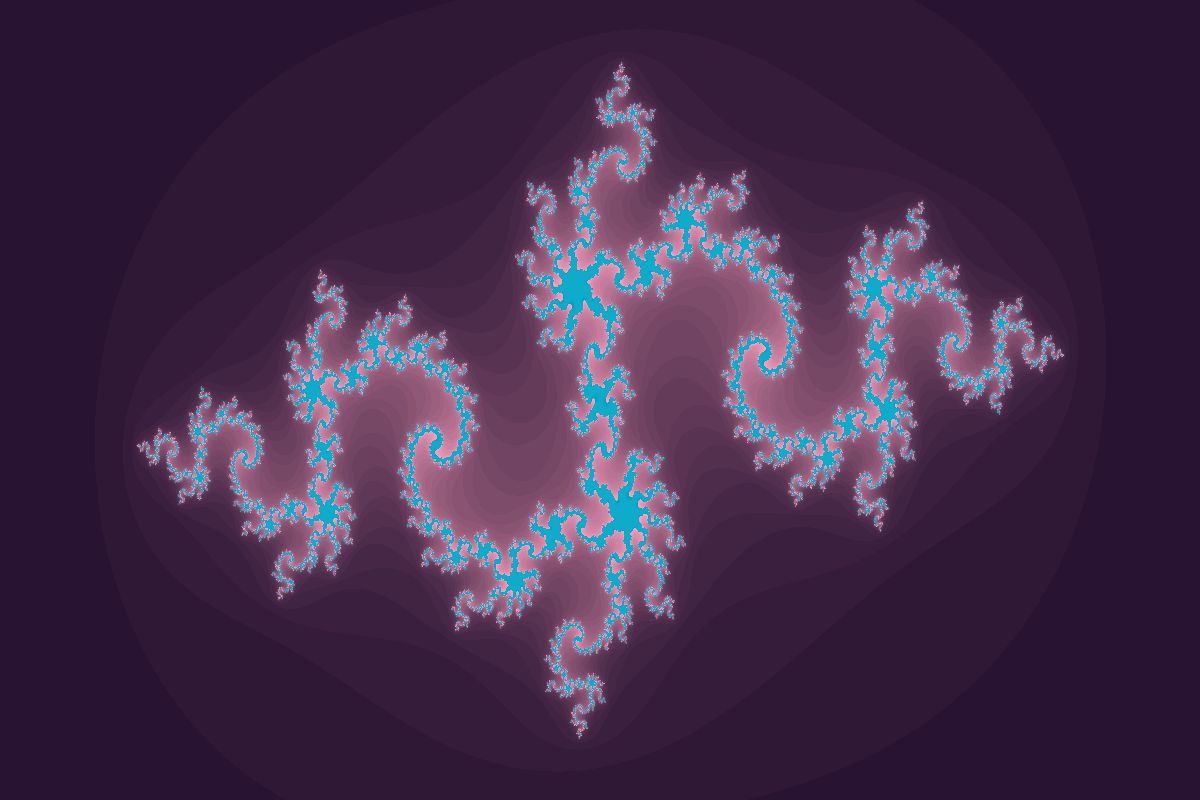
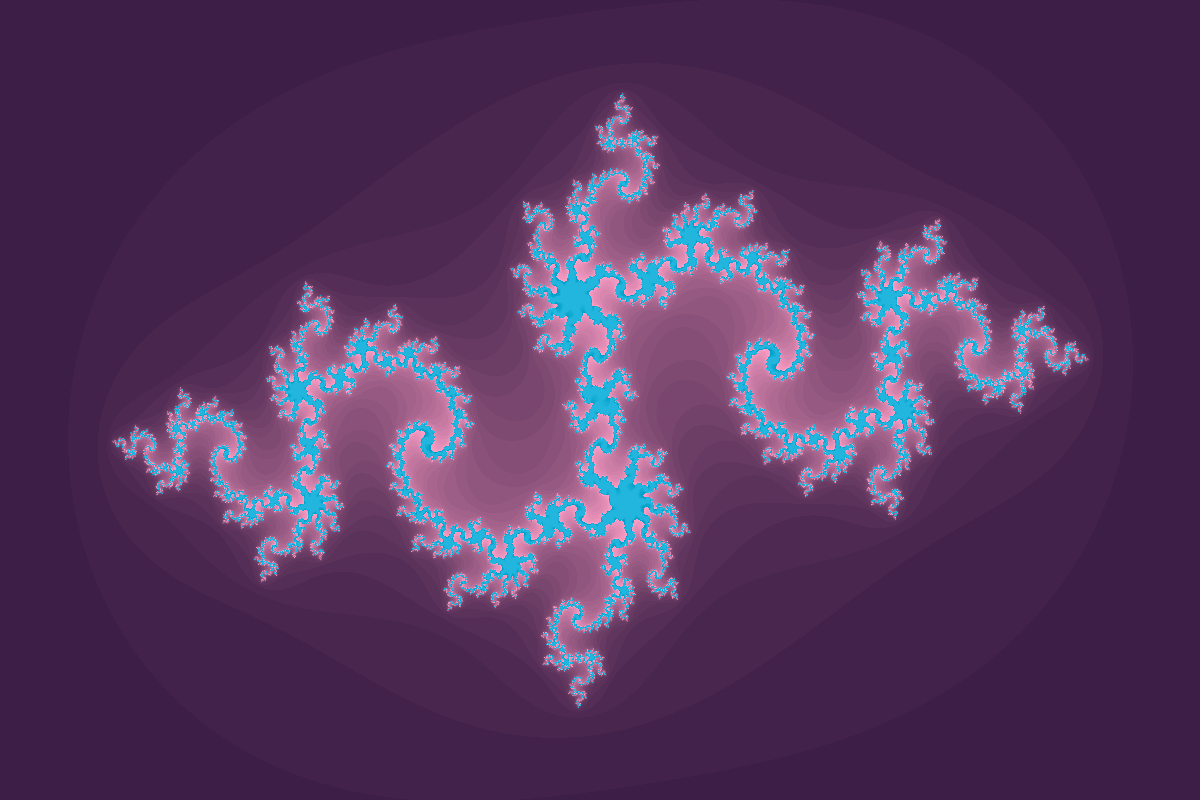
found better viewport for julia & mandelbrot

diff --git a/notes.md b/notes.md
@@ -1,6 +1,6 @@
 mandelbrot :
   - colors- (x*2 + 20) (x ^ 2) (x*3 + 35)
-  - view port- ( (-1.9, 1.3), (0.7, -1.3) )
+  - view port- ( (-1.9, 1.2), (0.8, -1.3) )
 
 burning ship:
   - colors- (x^3) x (x^2) -- something like that i think. actually deleted it before noting, unfortunatly
@@ -11,6 +11,6 @@ tricorn:
   - view port ( (-2.0, 2.0), (2.0, -2.0) )
 
 julia:
-  - colors (x*3+60) (x*2+50) (x*2+ 60)
-  - view port( (2,-1), (-2,1) )
+  - colors (x*3+60) (x*2+30) (x*2+ 70)
+  - view port( (-1.9,1.1), (1.9,-1.1) )
   - c const used ((-0.835) :+ (-0.2321))
